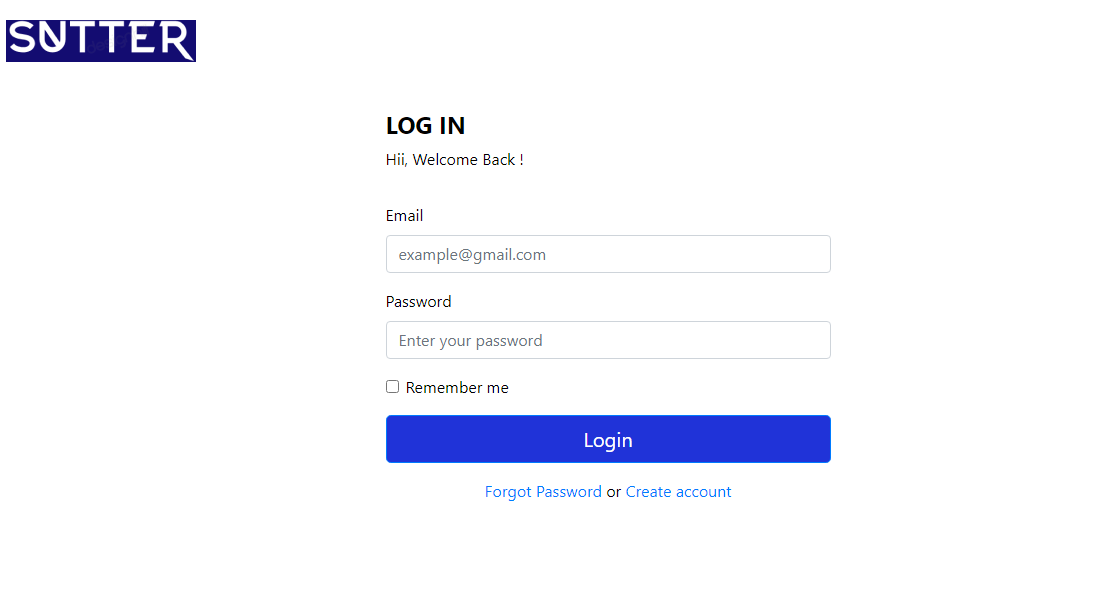
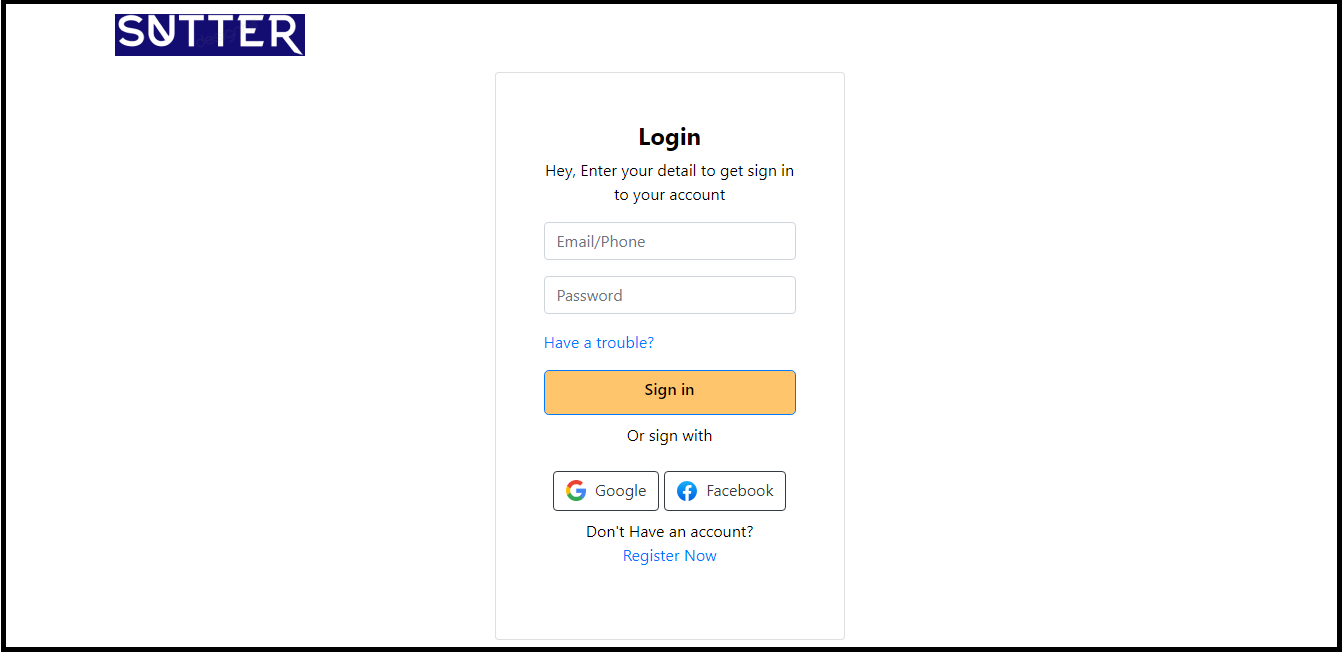
update login

diff --git a/index.html b/index.html
@@ -14,60 +14,77 @@
 </head>
 
 <body>
-  <div class="container-fluid py-5">
-<div class="container">
-  <div class="row">
-    <div class="col-12">
-      <img src="img/shut.png">
+  <div class="container-fluid py-3">
+    <div class="container">
+      <div class="row">
+        <div class="col-12">
+          <img src="img/shut.png">
+        </div>
+      </div>
     </div>
-  </div>
-  </div>
-<div class="container py-5">
-  <div class="row">
-    <div class="col-5 offset-4">
-    <h1> <b>LOG IN </b></h1> 
-    <p>Hii, Welcome Back !</p>
-</div>
-<div class="container py-lg-3">
-    <div class="row">
-      <div class="col-5 offset-4">
-        <form>
-          <div class="mb-3">
-            <label for="exampleInputEmail1" class="form-label">Email</label>
-            <input type="email" class="form-control" placeholder="example@gmail.com" id="exampleInputEmail1" aria-describedby="emailHelp">
-          </div>
-          <div class="mb-3">
-            <label for="exampleInputPassword1" class="form-label">Password</label>
-            <input type="password" class="form-control" placeholder="Enter your password" id="exampleInputPassword1">
-          </div>
-          <div class="mb-3 form-check">
-            <input type="checkbox" class="form-check-input" id="exampleCheck1">
-            <label class="form-check-label" for="exampleCheck1">Remember me </label>
+    <div class="container py-3">
+      <div class="row">
+        <div class="col-4 offset-4">
+          <div class="rounded"></div>
+          <div class="card bg-white">
+            <div class="card-body p-5">
+              <h1 style=" text-align: center;"> <b>Login </b></h1>
+              <p style=" text-align: center;">Hey, Enter your detail to get sign in to your account</p>
+              <form>
+                <div class="mb-3">
+                  <input type="email" class="form-control" placeholder="Email/Phone" id="exampleInputEmail1"
+                    aria-describedby="emailHelp">
+                </div>
+                <div class="mb-3">
+                  <input type="password" class="form-control" placeholder="Password" id="exampleInputPassword1">
+                </div>
+                <p style="color: black;"> <a href="#">Have a trouble?</a> </p>
 
-          </div>
-          <button type="button " class="btn btn-primary btn-lg btn-block"
-                style="background-color: #2033D8;">Login</button>
-        </form>
+                <button type="button " class="btn btn-primary btn-lg btn-block"
+                  style="background-color: #FFC56D; color: black; ">
+                  <h6> Sign in </h6>
+                </button>
+              </form>
 
-        <p class="text-center py-3"> <a href="#">Forgot Password</a> or <a href="#">Create account</a> </p>
+              <p class="text-center py-2"> Or sign with</a> </p>
+              <div class="row">
+                <div class="col-12 text-center">
+                  <a class="btn btn-outline-dark" href="https://gmail.com" role="button" style="text-transform:none">
+                    <img width="20px" style="margin-bottom:3px; margin-right:5px" alt="Google sign-in"
+                      src="https://upload.wikimedia.org/wikipedia/commons/thumb/5/53/Google_%22G%22_Logo.svg/512px-Google_%22G%22_Logo.svg.png" />
+                    Google
+                  </a>
+                  <a class="btn btn-outline-dark" href="https://facebook.com" role="button" style="text-transform:none">
+                    <img width="20px" style="margin-bottom:3px; margin-right:5px" alt="Google sign-in"
+                      src="https://upload.wikimedia.org/wikipedia/en/0/04/Facebook_f_logo_%282021%29.svg" />
+                    Facebook
+                  </a>
+                </div>
+              </div>
+
+
+
+
+              <p class="text-center py-2"> Don't Have an account? <br> <a href="#">Register Now</a> </p>
+            </div>
+          </div>
+        </div>
       </div>
     </div>
   </div>
-  </div>  
   </div>
-    </div>
+  </div>
 
 
-    <!-- Optional JavaScript -->
-    <!-- jQuery first, then Popper.js, then Bootstrap JS -->
-    <script src="https://code.jquery.com/jquery-3.3.1.slim.min.js"
-      integrity="sha384-q8i/X+965DzO0rT7abK41JStQIAqVgRVzpbzo5smXKp4YfRvH+8abtTE1Pi6jizo"
-      crossorigin="anonymous"></script>
-    <script src="umd/popper.min.js" integrity="sha384-UO2eT0CpHqdSJQ6hJty5KVphtPhzWj9WO1clHTMGa3JDZwrnQq4sF86dIHNDz0W1"
-      crossorigin="anonymous"></script>
-    <script src="/js/bootstrap.min.js"
-      integrity="sha384-JjSmVgyd0p3pXB1rRibZUAYoIIy6OrQ6VrjIEaFf/nJGzIxFDsf4x0xIM+B07jRM"
-      crossorigin="anonymous"></script>
+  <!-- Optional JavaScript -->
+  <!-- jQuery first, then Popper.js, then Bootstrap JS -->
+  <script src="https://code.jquery.com/jquery-3.3.1.slim.min.js"
+    integrity="sha384-q8i/X+965DzO0rT7abK41JStQIAqVgRVzpbzo5smXKp4YfRvH+8abtTE1Pi6jizo"
+    crossorigin="anonymous"></script>
+  <script src="umd/popper.min.js" integrity="sha384-UO2eT0CpHqdSJQ6hJty5KVphtPhzWj9WO1clHTMGa3JDZwrnQq4sF86dIHNDz0W1"
+    crossorigin="anonymous"></script>
+  <script src="/js/bootstrap.min.js" integrity="sha384-JjSmVgyd0p3pXB1rRibZUAYoIIy6OrQ6VrjIEaFf/nJGzIxFDsf4x0xIM+B07jRM"
+    crossorigin="anonymous"></script>
 </body>
 
 </html>
